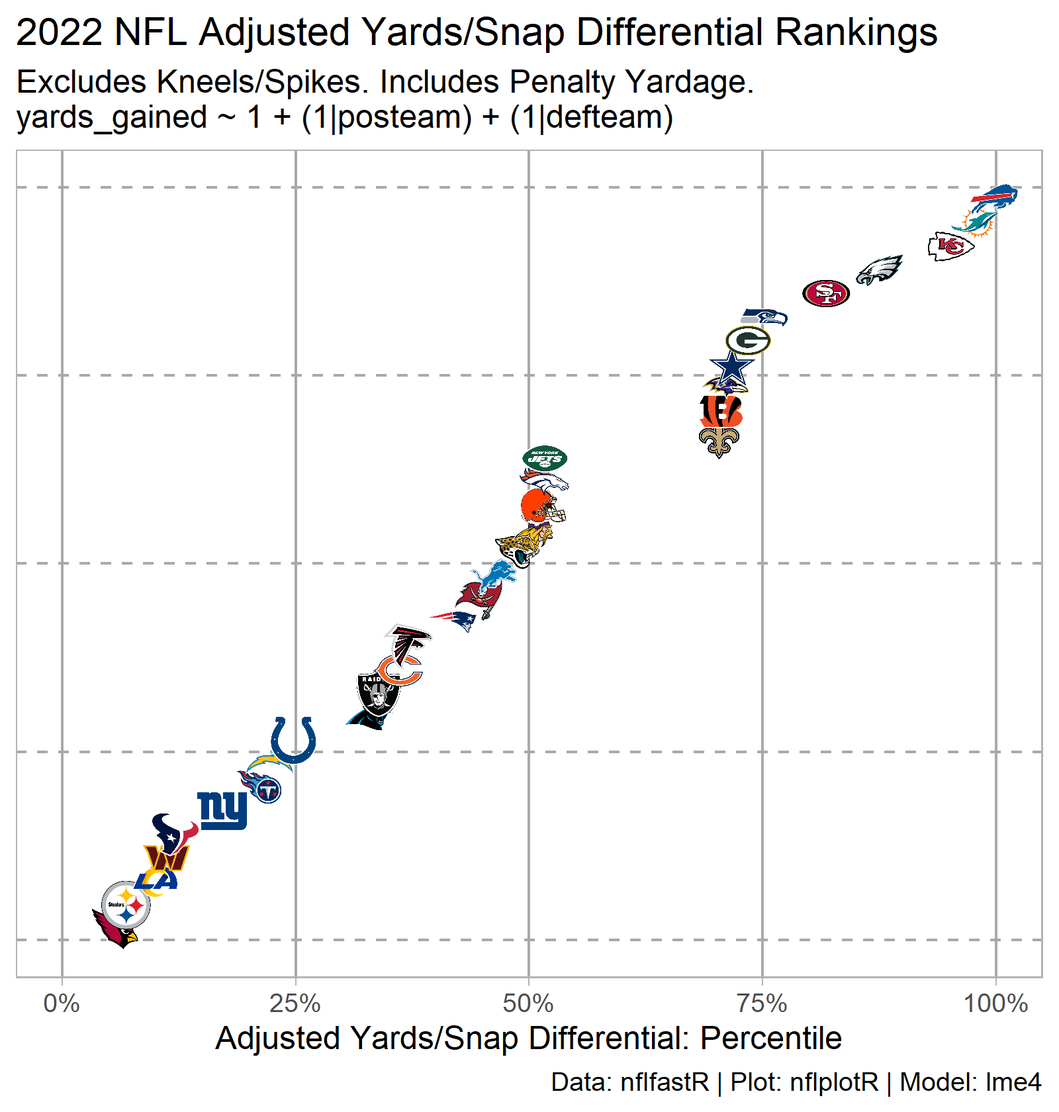
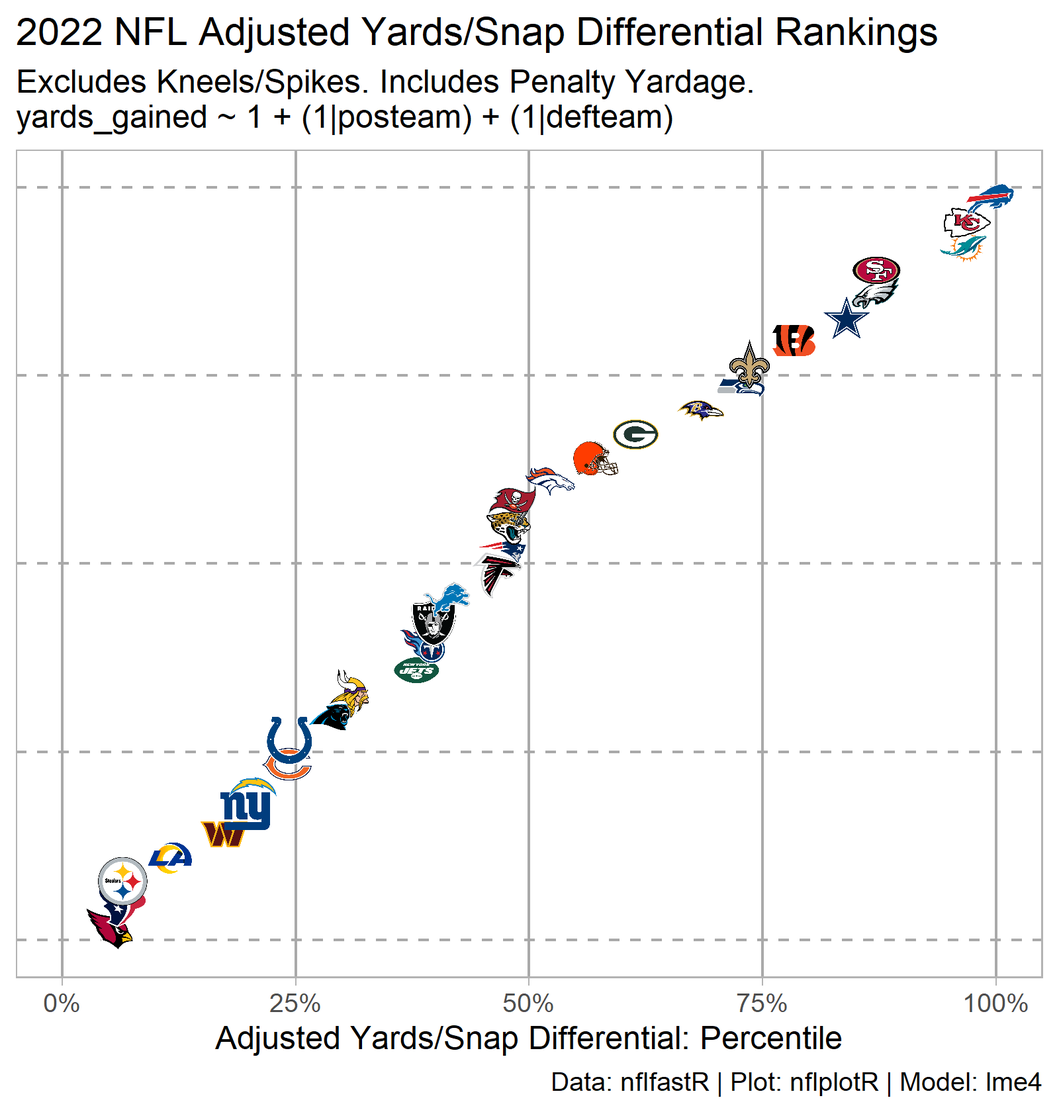
11/23/2023

Changed region(s): [[0.0625, 0.3714, 0.625, 0.8667], [0.625, 0.1548, 0.9688, 0.4333]]

diff --git a/docs/2022-nfl-team-metrics.html b/docs/2022-nfl-team-metrics.html
@@ -94,8 +94,8 @@ code span.wa { color: #5e5e5e; font-style: italic; } /* Warning */
 
 
   <!--  https://schema.org/Article -->
-  <meta property="article:published" itemprop="datePublished" content="2022-11-15"/>
-  <meta property="article:created" itemprop="dateCreated" content="2022-11-15"/>
+  <meta property="article:published" itemprop="datePublished" content="2022-11-23"/>
+  <meta property="article:created" itemprop="dateCreated" content="2022-11-23"/>
   <meta name="article:author" content="Casey Caprini"/>
 
   <!--  https://developers.facebook.com/docs/sharing/webmasters#markup -->
@@ -114,7 +114,7 @@ code span.wa { color: #5e5e5e; font-style: italic; } /* Warning */
   <!--radix_placeholder_rmarkdown_metadata-->
 
   <script type="text/json" id="radix-rmarkdown-metadata">
-  {"type":"list","attributes":{"names":{"type":"character","attributes":{},"value":["title","description","author","date","output"]}},"value":[{"type":"character","attributes":{},"value":["2022 NFL Team Metrics"]},{"type":"character","attributes":{},"value":["Team time average metrics for the 2021 regular season.\n"]},{"type":"list","attributes":{},"value":[{"type":"list","attributes":{"names":{"type":"character","attributes":{},"value":["name"]}},"value":[{"type":"character","attributes":{},"value":["Casey Caprini"]}]}]},{"type":"character","attributes":{},"value":["11-15-2022"]},{"type":"list","attributes":{"names":{"type":"character","attributes":{},"value":["distill::distill_article"]}},"value":[{"type":"list","attributes":{"names":{"type":"character","attributes":{},"value":["self_contained","code_folding"]}},"value":[{"type":"logical","attributes":{},"value":[false]},{"type":"logical","attributes":{},"value":[true]}]}]}]}
+  {"type":"list","attributes":{"names":{"type":"character","attributes":{},"value":["title","description","author","date","output"]}},"value":[{"type":"character","attributes":{},"value":["2022 NFL Team Metrics"]},{"type":"character","attributes":{},"value":["Team time average metrics for the 2021 regular season.\n"]},{"type":"list","attributes":{},"value":[{"type":"list","attributes":{"names":{"type":"character","attributes":{},"value":["name"]}},"value":[{"type":"character","attributes":{},"value":["Casey Caprini"]}]}]},{"type":"character","attributes":{},"value":["11-23-2022"]},{"type":"list","attributes":{"names":{"type":"character","attributes":{},"value":["distill::distill_article"]}},"value":[{"type":"list","attributes":{"names":{"type":"character","attributes":{},"value":["self_contained","code_folding"]}},"value":[{"type":"logical","attributes":{},"value":[false]},{"type":"logical","attributes":{},"value":[true]}]}]}]}
   </script>
   <!--/radix_placeholder_rmarkdown_metadata-->
   <!--radix_placeholder_navigation_in_header-->
@@ -2408,7 +2408,7 @@ code span.wa { color: #5e5e5e; font-style: italic; } /* Warning */
 <!--radix_placeholder_front_matter-->
 
 <script id="distill-front-matter" type="text/json">
-{"title":"2022 NFL Team Metrics","description":"Team time average metrics for the 2021 regular season.","authors":[{"author":"Casey Caprini","authorURL":"#","affiliation":"&nbsp;","affiliationURL":"#","orcidID":""}],"publishedDate":"2022-11-15T00:00:00.000-05:00","citationText":"Caprini, 2022"}
+{"title":"2022 NFL Team Metrics","description":"Team time average metrics for the 2021 regular season.","authors":[{"author":"Casey Caprini","authorURL":"#","affiliation":"&nbsp;","affiliationURL":"#","orcidID":""}],"publishedDate":"2022-11-23T00:00:00.000-05:00","citationText":"Caprini, 2022"}
 </script>
 
 <!--/radix_placeholder_front_matter-->
@@ -2441,7 +2441,7 @@ code span.wa { color: #5e5e5e; font-style: italic; } /* Warning */
 <div class="d-byline">
   Casey Caprini  
   
-<br/>11-15-2022
+<br/>11-23-2022
 </div>
 
 <div class="d-article">
@@ -2767,8 +2767,8 @@ Show code
 <span>  <span class='op'>)</span></span></code></pre>
 </div>
 </details>
-<div id="htmlwidget-ec0e6b16df1363bb1438" class="reactable html-widget" style="width:auto;height:675px;"></div>
-<script type="application/json" data-for="htmlwidget-ec0e6b16df1363bb1438">{"x":{"tag":{"name":"Reactable","attribs":{"data":{"team_logo_espn":["https://a.espncdn.com/i/teamlogos/nfl/500/ari.png","https://a.espncdn.com/i/teamlogos/nfl/500/atl.png","https://a.espncdn.com/i/teamlogos/nfl/500/bal.png","https://a.espncdn.com/i/teamlogos/nfl/500/buf.png","https://a.espncdn.com/i/teamlogos/nfl/500-dark/car.png","https://a.espncdn.com/i/teamlogos/nfl/500/chi.png","https://a.espncdn.com/i/teamlogos/nfl/500/cin.png","https://a.espncdn.com/i/teamlogos/nfl/500/cle.png","https://a.espncdn.com/i/teamlogos/nfl/500/dal.png","https://a.espncdn.com/i/teamlogos/nfl/500/den.png","https://a.espncdn.com/i/teamlogos/nfl/500/det.png","https://a.espncdn.com/i/teamlogos/nfl/500/gb.png","https://a.espncdn.com/i/teamlogos/nfl/500/hou.png","https://a.espncdn.com/i/teamlogos/nfl/500/ind.png","https://a.espncdn.com/i/teamlogos/nfl/500/jax.png","https://a.espncdn.com/i/teamlogos/nfl/500/kc.png","https://a.espncdn.com/i/teamlogos/nfl/500/lar.png","https://a.espncdn.com/i/teamlogos/nfl/500/lac.png","https://a.espncdn.com/i/teamlogos/nfl/500/lv.png","https://a.espncdn.com/i/teamlogos/nfl/500/mia.png","https://a.espncdn.com/i/teamlogos/nfl/500/min.png","https://a.espncdn.com/i/teamlogos/nfl/500/ne.png","https://a.espncdn.com/i/teamlogos/nfl/500/no.png","https://a.espncdn.com/i/teamlogos/nfl/500/nyg.png","https://a.espncdn.com/i/teamlogos/nfl/500/nyj.png","https://a.espncdn.com/i/teamlogos/nfl/500/phi.png","https://a.espncdn.com/i/teamlogos/nfl/500/pit.png","https://a.espncdn.com/i/teamlogos/nfl/500/sea.png","https://a.espncdn.com/i/teamlogos/nfl/500/sf.png","https://a.espncdn.com/i/teamlogos/nfl/500/tb.png","https://a.espncdn.com/i/teamlogos/nfl/500/ten.png","https://a.espncdn.com/i/teamlogos/nfl/500/wsh.png"],"team":["ARI","ATL","BAL","BUF","CAR","CHI","CIN","CLE","DAL","DEN","DET","GB","HOU","IND","JAX","KC","LA","LAC","LV","MIA","MIN","NE","NO","NYG","NYJ","PHI","PIT","SEA","SF","TB","TEN","WAS"],"time_avg_lead":[-4.143,-2.03191666666667,5.03435185185185,6.56422839506173,-1.94530555555556,-2.64238888888889,1.89237654320988,0.512283950617284,2.79361111111111,-0.93070987654321,-0.654845679012346,-1.31263888888889,-2.5920987654321,-4.58661111111111,1.17733333333333,3.85601851851852,-0.499166666666667,-0.499382716049383,-1.18651234567901,-0.196166666666667,0.71141975308642,1.76154320987654,-1.41261111111111,-1.14043209876543,-1.47654320987654,6.66719135802469,-3.53413580246914,0.844472222222222,1.87432098765432,-0.609111111111111,2.93487654320988,-3.02161111111111],"time_avg_wins":[3.18881556213732,4.50402090089957,6.94553728655957,6.64660702748456,4.60189902474046,3.71574018990607,4.3262408534412,4.80894623616012,5.78709795575564,3.90124880856231,4.33036645559883,4.41332390508226,3.25393336397291,2.75801857650448,5.35952299559142,5.66541909757392,4.04972370765926,4.25336432643312,4.25335511787579,4.81175478109935,5.07974457211305,5.14944181770693,3.89760281683306,3.81490688444891,3.97722093136563,7.23117841163086,3.58730956678077,5.66806147767994,5.24318142091912,4.69159081159336,6.31195935516555,3.77286576072469],"off_yards_per_snap":[4.49245541838134,5.20491803278689,5.48096885813149,6.30327868852459,4.88415672913118,5.19936708860759,5.34789644012945,5.38095238095238,5.1394148020654,4.73217115689382,5.5152027027027,5.38449848024316,4.83392857142857,4.67485549132948,5.29203539823009,5.95873015873016,4.32280701754386,4.94670846394984,5.16123499142367,6.28526645768025,5.25361155698234,4.97894736842105,5.40184049079755,4.74959349593496,4.8914858096828,5.47634584013051,4.38969404186795,5.64593301435407,5.36040609137056,4.87731811697575,4.59439252336449,4.65021156558533],"off_adj_yards_per_snap":[4.81443090087255,5.18171720122768,5.30963864167038,5.68415036043219,5.0238829176357,5.16480983706767,5.24132017645793,5.25374520872609,5.14548691916373,4.95073971837095,5.3166384125296,5.26719510662215,5.01488822236276,4.90885637459755,5.22170677001515,5.5388490541351,4.80316054313682,5.04282184883579,5.15849043319695,5.6767764079059,5.19025846021132,5.06205267056378,5.25899099628249,4.95331732628401,5.03926039731874,5.27593332128278,4.81590044046485,5.37419123465982,5.23989663969639,5.01419100582218,4.91740361577613,4.91043765672331],"def_yards_per_snap":[5.3562874251497,5.5568345323741,5.38279932546374,4.7056856187291,5.01276595744681,5.60096153846154,5.0472027972028,5.59680284191829,4.52,4.20772946859903,6.0489396411093,5.02392344497608,5.64342313787639,4.76388888888889,5.38980509745127,5.13764510779436,4.89821428571429,5.54513888888889,5.54438860971524,5.49388379204893,5.44426494345719,5.02401372212693,5.04393939393939,5.28006872852234,4.73008130081301,4.41788617886179,5.32626427406199,5.32142857142857,4.52593917710197,4.76197836166924,4.9622641509434,5.3623417721519],"def_adj_yards_per_snap":[5.18760968693994,5.25930690884085,5.18184239343465,5.04664762648064,5.12772602389939,5.24918821834545,5.11633037186692,5.2451669047004,5.01201616838855,4.94150358486918,5.33961938485623,5.12154672559712,5.28875957603931,5.06865916241325,5.22985006645616,5.15221529155405,5.10434765154896,5.22189248122452,5.25580505412254,5.21485775489584,5.18837398336167,5.11063721216944,5.13502004576217,5.1759124810626,5.03001903978724,5.00817998836356,5.16424236169614,5.21627610975098,5.02895673343041,5.04610188038915,5.10673022790086,5.19579771989954],"yards_per_snap_diff":[-0.863832006768356,-0.351916499587215,0.0981695326677441,1.59759306979549,-0.128609228315633,-0.401594449853944,0.300693642926652,-0.215850460965913,0.619414802065405,0.524441688294785,-0.533736938406596,0.360575035267085,-0.809494566447816,-0.0890333975594091,-0.0977696992211863,0.821085050935797,-0.575407268170426,-0.598430424939046,-0.383153618291573,0.791382665631321,-0.190653386474846,-0.0450663537058773,0.357901096858152,-0.530475232587377,0.161404508869796,1.05845966126872,-0.936570232194035,0.324504442925496,0.834466914268591,0.115339755306506,-0.36787162757891,-0.712130206566568],"adj_yards_per_snap_diff":[-0.373178786067394,-0.0775897076131669,0.127796248235732,0.637502733951548,-0.103843106263694,-0.084378381277781,0.124989804591008,0.00857830402569348,0.133470750775179,0.00923613350177277,-0.0229809723266223,0.145648381025038,-0.273871353676554,-0.159802787815698,-0.00814329644101353,0.386633762581041,-0.301187108412138,-0.179070632388736,-0.0973146209255873,0.461918653010067,0.0018844768496491,-0.0485845416056661,0.123970950520322,-0.222595154778591,0.00924135753149891,0.267753332919227,-0.348341921231286,0.157915124908843,0.210939906265982,-0.0319108745669645,-0.189326612124735,-0.285360063176232]},"columns":[{"accessor":"team_logo_espn","name":" ","type":"character","format":{"cell":{"digits":1},"aggregated":{"digits":1}},"align":"center","sortable":false,"cell":[{"name":"Fragment","attribs":[],"children":[{"name":"div","attribs":{"style":{"display":"flex","justifyContent":"center"}},"children":[{"name":"img","attribs":{"src":"https://a.espncdn.com/i/teamlogos/nfl/500/ari.png","align":"center","height":24,"width":24},"children":[]}]}]},{"name":"Fragment","attribs":[],"children":[{"name":"div","attribs":{"style":{"display":"flex","justifyContent":"center"}},"children":[{"name":"img","attribs":{"src":"https://a.espncdn.com/i/teamlogos/nfl/500/atl.png","align":"center","height":24,"width":24},"children":[]}]}]},{"name":"Fragment","attribs":[],"children":[{"name":"div","attribs":{"style":{"display":"flex","justifyContent":"center"}},"children":[{"name":"img","attribs":{"src":"https://a.espncdn.com/i/teamlogos/nfl/500/bal.png","align":"center","height":24,"width":24},"children":[]}]}]},{"name":"Fragment","attribs":[],"children":[{"name":"div","attribs":{"style":{"display":"flex","justifyContent":"center"}},"children":[{"name":"img","attribs":{"src":"https://a.espncdn.com/i/teamlogos/nfl/500/buf.png","align":"center","height":24,"width":24},"children":[]}]}]},{"name":"Fragment","attribs":[],"children":[{"name":"div","attribs":{"style":{"display":"flex","justifyContent":"center"}},"children":[{"name":"img","attribs":{"src":"https://a.espncdn.com/i/teamlogos/nfl/500-dark/car.png","align":"center","height":24,"width":24},"children":[]}]}]},{"name":"Fragment","attribs":[],"children":[{"name":"div","attribs":{"style":{"display":"flex","justifyContent":"center"}},"children":[{"name":"img","attribs":{"src":"https://a.espncdn.com/i/teamlogos/nfl/500/chi.png","align":"center","height":24,"width":24},"children":[]}]}]},{"name":"Fragment","attribs":[],"children":[{"name":"div","attribs":{"style":{"display":"flex","justifyContent":"center"}},"children":[{"name":"img","attribs":{"src":"https://a.espncdn.com/i/teamlogos/nfl/500/cin.png","align":"center","height":24,"width":24},"children":[]}]}]},{"name":"Fragment","attribs":[],"children":[{"name":"div","attribs":{"style":{"display":"flex","justifyContent":"center"}},"children":[{"name":"img","attribs":{"src":"https://a.espncdn.com/i/teamlogos/nfl/500/cle.png","align":"center","height":24,"width":24},"children":[]}]}]},{"name":"Fragment","attribs":[],"children":[{"name":"div","attribs":{"style":{"display":"flex","justifyContent":"center"}},"children":[{"name":"img","attribs":{"src":"https://a.espncdn.com/i/teamlogos/nfl/500/dal.png","align":"center","height":24,"width":24},"children":[]}]}]},{"name":"Fragment","attribs":[],"children":[{"name":"div","attribs":{"style":{"display":"flex","justifyContent":"center"}},"children":[{"name":"img","attribs":{"src":"https://a.espncdn.com/i/teamlogos/nfl/500/den.png","align":"center","height":24,"width":24},"children":[]}]}]},{"name":"Fragment","attribs":[],"children":[{"name":"div","attribs":{"style":{"display":"flex","justifyContent":"center"}},"children":[{"name":"img","attribs":{"src":"https://a.espncdn.com/i/teamlogos/nfl/500/det.png","align":"center","height":24,"width":24},"children":[]}]}]},{"name":"Fragment","attribs":[],"children":[{"name":"div","attribs":{"style":{"display":"flex","justifyContent":"center"}},"children":[{"name":"img","attribs":{"src":"https://a.espncdn.com/i/teamlogos/nfl/500/gb.png","align":"center","height":24,"width":24},"children":[]}]}]},{"name":"Fragment","attribs":[],"children":[{"name":"div","attribs":{"style":{"display":"flex","justifyContent":"center"}},"children":[{"name":"img","attribs":{"src":"https://a.espncdn.com/i/teamlogos/nfl/500/hou.png","align":"center","height":24,"width":24},"children":[]}]}]},{"name":"Fragment","attribs":[],"children":[{"name":"div","attribs":{"style":{"display":"flex","justifyContent":"center"}},"children":[{"name":"img","attribs":{"src":"https://a.espncdn.com/i/teamlogos/nfl/500/ind.png","align":"center","height":24,"width":24},"children":[]}]}]},{"name":"Fragment","attribs":[],"children":[{"name":"div","attribs":{"style":{"display":"flex","justifyContent":"center"}},"children":[{"name":"img","attribs":{"src":"https://a.espncdn.com/i/teamlogos/nfl/500/jax.png","align":"center","height":24,"width":24},"children":[]}]}]},{"name":"Fragment","attribs":[],"children":[{"name":"div","attribs":{"style":{"display":"flex","justifyContent":"center"}},"children":[{"name":"img","attribs":{"src":"https://a.espncdn.com/i/teamlogos/nfl/500/kc.png","align":"center","height":24,"width":24},"children":[]}]}]},{"name":"Fragment","attribs":[],"children":[{"name":"div","attribs":{"style":{"display":"flex","justifyContent":"center"}},"children":[{"name":"img","attribs":{"src":"https://a.espncdn.com/i/teamlogos/nfl/500/lar.png","align":"center","height":24,"width":24},"children":[]}]}]},{"name":"Fragment","attribs":[],"children":[{"name":"div","attribs":{"style":{"display":"flex","justifyContent":"center"}},"children":[{"name":"img","attribs":{"src":"https://a.espncdn.com/i/teamlogos/nfl/500/lac.png","align":"center","height":24,"width":24},"children":[]}]}]},{"name":"Fragment","attribs":[],"children":[{"name":"div","attribs":{"style":{"display":"flex","justifyContent":"center"}},"children":[{"name":"img","attribs":{"src":"https://a.espncdn.com/i/teamlogos/nfl/500/lv.png","align":"center","height":24,"width":24},"children":[]}]}]},{"name":"Fragment","attribs":[],"children":[{"name":"div","attribs":{"style":{"display":"flex","justifyContent":"center"}},"children":[{"name":"img","attribs":{"src":"https://a.espncdn.com/i/teamlogos/nfl/500/mia.png","align":"center","height":24,"width":24},"children":[]}]}]},{"name":"Fragment","attribs":[],"children":[{"name":"div","attribs":{"style":{"display":"flex","justifyContent":"center"}},"children":[{"name":"img","attribs":{"src":"https://a.espncdn.com/i/teamlogos/nfl/500/min.png","align":"center","height":24,"width":24},"children":[]}]}]},{"name":"Fragment","attribs":[],"children":[{"name":"div","attribs":{"style":{"display":"flex","justifyContent":"center"}},"children":[{"name":"img","attribs":{"src":"https://a.espncdn.com/i/teamlogos/nfl/500/ne.png","align":"center","height":24,"width":24},"children":[]}]}]},{"name":"Fragment","attribs":[],"children":[{"name":"div","attribs":{"style":{"display":"flex","justifyContent":"center"}},"children":[{"name":"img","attribs":{"src":"https://a.espncdn.com/i/teamlogos/nfl/500/no.png","align":"center","height":24,"width":24},"children":[]}]}]},{"name":"Fragment","attribs":[],"children":[{"name":"div","attribs":{"style":{"display":"flex","justifyContent":"center"}},"children":[{"name":"img","attribs":{"src":"https://a.espncdn.com/i/teamlogos/nfl/500/nyg.png","align":"center","height":24,"width":24},"children":[]}]}]},{"name":"Fragment","attribs":[],"children":[{"name":"div","attribs":{"style":{"display":"flex","justifyContent":"center"}},"children":[{"name":"img","attribs":{"src":"https://a.espncdn.com/i/teamlogos/nfl/500/nyj.png","align":"center","height":24,"width":24},"children":[]}]}]},{"name":"Fragment","attribs":[],"children":[{"name":"div","attribs":{"style":{"display":"flex","justifyContent":"center"}},"children":[{"name":"img","attribs":{"src":"https://a.espncdn.com/i/teamlogos/nfl/500/phi.png","align":"center","height":24,"width":24},"children":[]}]}]},{"name":"Fragment","attribs":[],"children":[{"name":"div","attribs":{"style":{"display":"flex","justifyContent":"center"}},"children":[{"name":"img","attribs":{"src":"https://a.espncdn.com/i/teamlogos/nfl/500/pit.png","align":"center","height":24,"width":24},"children":[]}]}]},{"name":"Fragment","attribs":[],"children":[{"name":"div","attribs":{"style":{"display":"flex","justifyContent":"center"}},"children":[{"name":"img","attribs":{"src":"https://a.espncdn.com/i/teamlogos/nfl/500/sea.png","align":"center","height":24,"width":24},"children":[]}]}]},{"name":"Fragment","attribs":[],"children":[{"name":"div","attribs":{"style":{"display":"flex","justifyContent":"center"}},"children":[{"name":"img","attribs":{"src":"https://a.espncdn.com/i/teamlogos/nfl/500/sf.png","align":"center","height":24,"width":24},"children":[]}]}]},{"name":"Fragment","attribs":[],"children":[{"name":"div","attribs":{"style":{"display":"flex","justifyContent":"center"}},"children":[{"name":"img","attribs":{"src":"https://a.espncdn.com/i/teamlogos/nfl/500/tb.png","align":"center","height":24,"width":24},"children":[]}]}]},{"name":"Fragment","attribs":[],"children":[{"name":"div","attribs":{"style":{"display":"flex","justifyContent":"center"}},"children":[{"name":"img","attribs":{"src":"https://a.espncdn.com/i/teamlogos/nfl/500/ten.png","align":"center","height":24,"width":24},"children":[]}]}]},{"name":"Fragment","attribs":[],"children":[{"name":"div","attribs":{"style":{"display":"flex","justifyContent":"center"}},"children":[{"name":"img","attribs":{"src":"https://a.espncdn.com/i/teamlogos/nfl/500/wsh.png","align":"center","height":24,"width":24},"children":[]}]}]}],"width":40,"style":{"position":"sticky","left":0,"background":"#fff","zIndex":1}},{"accessor":"team","name":"Team","type":"character","format":{"cell":{"digits":1},"aggregated":{"digits":1}},"align":"center","width":60,"style":{"position":"sticky","left":40,"background":"#fff","zIndex":1}},{"accessor":"time_avg_lead","name":"Time Average Lead","type":"numeric","format":{"cell":{"digits":1},"aggregated":{"digits":1}},"align":"center"},{"accessor":"time_avg_wins","name":"Expected Wins","type":"numeric","format":{"cell":{"digits":1},"aggregated":{"digits":1}},"align":"center"},{"accessor":"off_yards_per_snap","name":"Yards/Snap","type":"numeric","format":{"cell":{"digits":1},"aggregated":{"digits":1}},"align":"center"},{"accessor":"off_adj_yards_per_snap","name":"Adj Yards/Snap","type":"numeric","format":{"cell":{"digits":1},"aggregated":{"digits":1}},"align":"center"},{"accessor":"def_yards_per_snap","name":"Yards/Snap","type":"numeric","format":{"cell":{"digits":1},"aggregated":{"digits":1}},"align":"center"},{"accessor":"def_adj_yards_per_snap","name":"Adj Yards/Snap","type":"numeric","format":{"cell":{"digits":1},"aggregated":{"digits":1}},"align":"center"},{"accessor":"yards_per_snap_diff","name":"Yards/Snap Diff","type":"numeric","format":{"cell":{"digits":2},"aggregated":{"digits":2}},"align":"center"},{"accessor":"adj_yards_per_snap_diff","name":"Adj Yards/Snap Diff","type":"numeric","format":{"cell":{"digits":2},"aggregated":{"digits":2}},"align":"center"}],"columnGroups":[{"name":"Time Average Stats","columns":["time_avg_lead","time_avg_wins"]},{"name":"Offense","columns":["off_yards_per_snap","off_adj_yards_per_snap"]},{"name":"Defense","columns":["def_yards_per_snap","def_adj_yards_per_snap"]},{"name":"Differential","columns":["yards_per_snap_diff","adj_yards_per_snap_diff"]}],"defaultSortDesc":true,"defaultSorted":[{"id":"time_avg_lead","desc":true}],"pagination":false,"defaultPageSize":10,"paginationType":"numbers","showPageInfo":true,"minRows":1,"highlight":true,"bordered":true,"height":"675px","theme":{"color":"#878e94","backgroundColor":"#ffffff","borderWidth":"0px","stripedColor":"#f9f9fb","highlightColor":"#f1f3f4","cellPadding":4,"tableStyle":{"fontSize":16},"headerStyle":{"borderWidth":"1px","padding":"7px","borderTop":"1px solid #595d63","backgroundColor":"#595d63","textTransform":"uppercase","borderColor":"#595d63","color":"#ffffff","transitionDuration":"0.1s","&:hover[aria-sort]":{"backgroundColor":"#4d5056","color":"#ffffff"},"&[aria-sort='ascending']":{"backgroundColor":"#393c40","color":"#ffffff","boxShadow":"inset 0 3px 0 0 #ffffff"},"&[aria-sort='descending']":{"backgroundColor":"#393c40","color":"#ffffff","boxShadow":"inset 0 -3px 0 0 #ffffff"},"fontSize":12,"fontWeight":"bold"},"groupHeaderStyle":{"&:not(:empty)":{"backgroundColor":"#e4e8ed","textTransform":"uppercase","fontWeight":"bold","color":"#878e94","fontSize":12,"boxShadow":"inset 3px 0 0 0 #ffffff"}},"rowSelectedStyle":{"backgroundColor":"#e4e8ed"},"inputStyle":{"backgroundColor":"#ffffff","color":"#878e94"},"searchInputStyle":{"fontSize":"14px","textTransform":"uppercase","backgroundColor":"#ffffff","color":"#878e94","&:focus":{"color":"#878e94"}},"selectStyle":{"backgroundColor":"#073c57","color":"#ffffff","borderColor":"#ffffff","outlineColor":"#ffffff"},"paginationStyle":{"textTransform":"uppercase","fontSize":"15px"},"pageButtonStyle":{"textTransform":"uppercase","fontSize":"15px","backgroundColor":"#ffffff","color":"#164861","&:hover":{"backgroundColor":"#052c3f","color":"#ffffff"}},"pageButtonHoverStyle":{"backgroundColor":"#052c3f","color":"#ffffff"},"pageButtonActiveStyle":{"backgroundColor":"#073c57","color":"#ffffff"},"pageButtonCurrentStyle":{"backgroundColor":"#073c57","color":"#ffffff"}},"dataKey":"87e9a8a170355b8bdecde73e20adbf26"},"children":[]},"class":"reactR_markup"},"evals":[],"jsHooks":[]}</script>
+<div id="htmlwidget-3260d54af849f0b56dfe" class="reactable html-widget" style="width:auto;height:675px;"></div>
+<script type="application/json" data-for="htmlwidget-3260d54af849f0b56dfe">{"x":{"tag":{"name":"Reactable","attribs":{"data":{"team_logo_espn":["https://a.espncdn.com/i/teamlogos/nfl/500/ari.png","https://a.espncdn.com/i/teamlogos/nfl/500/atl.png","https://a.espncdn.com/i/teamlogos/nfl/500/bal.png","https://a.espncdn.com/i/teamlogos/nfl/500/buf.png","https://a.espncdn.com/i/teamlogos/nfl/500-dark/car.png","https://a.espncdn.com/i/teamlogos/nfl/500/chi.png","https://a.espncdn.com/i/teamlogos/nfl/500/cin.png","https://a.espncdn.com/i/teamlogos/nfl/500/cle.png","https://a.espncdn.com/i/teamlogos/nfl/500/dal.png","https://a.espncdn.com/i/teamlogos/nfl/500/den.png","https://a.espncdn.com/i/teamlogos/nfl/500/det.png","https://a.espncdn.com/i/teamlogos/nfl/500/gb.png","https://a.espncdn.com/i/teamlogos/nfl/500/hou.png","https://a.espncdn.com/i/teamlogos/nfl/500/ind.png","https://a.espncdn.com/i/teamlogos/nfl/500/jax.png","https://a.espncdn.com/i/teamlogos/nfl/500/kc.png","https://a.espncdn.com/i/teamlogos/nfl/500/lar.png","https://a.espncdn.com/i/teamlogos/nfl/500/lac.png","https://a.espncdn.com/i/teamlogos/nfl/500/lv.png","https://a.espncdn.com/i/teamlogos/nfl/500/mia.png","https://a.espncdn.com/i/teamlogos/nfl/500/min.png","https://a.espncdn.com/i/teamlogos/nfl/500/ne.png","https://a.espncdn.com/i/teamlogos/nfl/500/no.png","https://a.espncdn.com/i/teamlogos/nfl/500/nyg.png","https://a.espncdn.com/i/teamlogos/nfl/500/nyj.png","https://a.espncdn.com/i/teamlogos/nfl/500/phi.png","https://a.espncdn.com/i/teamlogos/nfl/500/pit.png","https://a.espncdn.com/i/teamlogos/nfl/500/sea.png","https://a.espncdn.com/i/teamlogos/nfl/500/sf.png","https://a.espncdn.com/i/teamlogos/nfl/500/tb.png","https://a.espncdn.com/i/teamlogos/nfl/500/ten.png","https://a.espncdn.com/i/teamlogos/nfl/500/wsh.png"],"team":["ARI","ATL","BAL","BUF","CAR","CHI","CIN","CLE","DAL","DEN","DET","GB","HOU","IND","JAX","KC","LA","LAC","LV","MIA","MIN","NE","NO","NYG","NYJ","PHI","PIT","SEA","SF","TB","TEN","WAS"],"time_avg_lead":[-4.72156565656566,-1.74568181818182,4.69344444444444,6.20677777777778,-1.91621212121212,-2.50368686868687,1.96258333333333,0.16225,4.42088888888889,-0.530444444444444,0.152166666666667,-1.72707070707071,-3.72377777777778,-3.61984848484849,1.17733333333333,3.37047222222222,-0.772805555555556,-0.3495,-1.37505555555556,-0.196166666666667,-1.26652777777778,1.61636111111111,-0.990050505050505,-1.76791666666667,-1.35986111111111,5.39569444444444,-3.44016666666667,0.844472222222222,2.73761111111111,-0.609111111111111,3.22852777777778,-1.48247474747475],"time_avg_wins":[3.22588319963195,5.08970859885584,7.56889769371166,7.36297429449797,4.97853861758837,4.13005249194979,5.01712964828669,5.09262276744109,6.78439467054586,4.62282685790927,5.23913876574615,4.55274211315023,3.26716590274129,3.62503255878838,5.35952299559142,6.08857587448928,4.31807133917703,4.83020754951777,4.53177706852882,4.81175478109935,5.08240405902847,5.67342686691137,4.62925518531528,3.90613457430159,4.45323588216118,7.36416442934696,3.89642077193528,5.66806147767994,6.20611378342449,4.69159081159336,7.17254114709757,4.75963322195631],"off_yards_per_snap":[4.47440699126092,5.24810892586989,5.33641975308642,6.23958333333333,4.72839506172839,5.04551920341394,5.43859649122807,5.42998585572843,5.25114854517611,4.77586206896552,5.45662100456621,5.29805013927577,4.63739837398374,4.59025032938076,5.29203539823009,6.10951008645533,4.37697160883281,4.99431818181818,5.23230769230769,6.28526645768025,5.03065693430657,4.89731437598736,5.46251768033946,4.78901734104046,4.63761467889908,5.40942562592047,4.38737446197991,5.64593301435407,5.46604938271605,4.87731811697575,4.81605351170569,4.67994858611825],"off_adj_yards_per_snap":[4.75967714253033,5.19529745588384,5.25655114660824,5.70636698180562,4.92066667988147,5.07691578442285,5.29876291461509,5.29935719962741,5.18815316917091,4.93280062890136,5.30343207433184,5.23618410587553,4.88570722830673,4.83582462399758,5.21896951361134,5.65456168720132,4.7766773371004,5.04326400742367,5.19442902355458,5.71144987189699,5.07355995100372,5.004413411622,5.29881361652361,4.926697972965,4.88893428837256,5.25527633605271,4.76419142130377,5.37754869727454,5.29057726014392,4.99738315285571,4.98203019570121,4.8827839825826],"def_yards_per_snap":[5.45103448275862,5.38250652741514,5.18195718654434,4.83407407407407,4.9341935483871,5.61333333333333,4.96759259259259,5.5984,4.36390101892285,4.36773255813953,5.94347826086956,5.1768115942029,5.57857142857143,4.76610644257703,5.38980509745127,5.16890881913303,5.0130081300813,5.75,5.51057401812689,5.49388379204893,5.51808972503618,4.75235109717868,5.02762430939227,5.24420401854714,4.67699115044248,4.34897360703812,5.41973490427099,5.32142857142857,4.49920760697306,4.76197836166924,4.90948275862069,5.14410480349345],"def_adj_yards_per_snap":[5.20987419966013,5.21906461098484,5.12763533146945,5.0401539129109,5.07216561631275,5.26927081269389,5.08658123971149,5.25064214093274,4.91820566404744,4.9178671417446,5.36509030679592,5.15804116602502,5.30127931802899,5.02608032252521,5.23465041279603,5.14729777785988,5.10431700291558,5.26886010943585,5.26543306168048,5.22066442333367,5.21140361618914,5.02444211630949,5.12749747463064,5.16060710229832,4.97291442833938,4.94812453771512,5.17967653492232,5.21413962333338,4.98256623999469,5.01003449090622,5.06288502347299,5.13979310317114],"yards_per_snap_diff":[-0.976627491497696,-0.13439760154525,0.154462566542078,1.40550925925926,-0.205798486658702,-0.567814129919393,0.471003898635478,-0.16841414427157,0.887247526253257,0.408129510825982,-0.486857256303355,0.121238545072868,-0.941173054587688,-0.175856113196266,-0.0977696992211863,0.940601267322297,-0.636036521248493,-0.755681818181818,-0.278266325819196,0.791382665631321,-0.48743279072961,0.144963278808678,0.434893370947197,-0.455186677506678,-0.0393764715433953,1.06045201888235,-1.03236044229107,0.324504442925496,0.96684177574299,0.115339755306506,-0.0934292469150035,-0.464156217375198],"adj_yards_per_snap_diff":[-0.450197057129798,-0.0237671551010079,0.128915815138788,0.666213068894714,-0.151498936431278,-0.192355028271042,0.212181674903593,0.0487150586946701,0.269947505123469,0.0149334871567603,-0.0616582324640707,0.0781429398505153,-0.415572089722261,-0.190255698527626,-0.0156808991846917,0.507263909341446,-0.327639665815183,-0.225596102012182,-0.0710040381258956,0.490785448563317,-0.137843665185414,-0.0200287046874896,0.171316141892963,-0.23390912933332,-0.0839801399668261,0.30715179833759,-0.415485113618549,0.163409073941161,0.308011020149221,-0.0126513380505102,-0.0808548277717822,-0.257009120588541]},"columns":[{"accessor":"team_logo_espn","name":" ","type":"character","format":{"cell":{"digits":1},"aggregated":{"digits":1}},"align":"center","sortable":false,"cell":[{"name":"Fragment","attribs":[],"children":[{"name":"div","attribs":{"style":{"display":"flex","justifyContent":"center"}},"children":[{"name":"img","attribs":{"src":"https://a.espncdn.com/i/teamlogos/nfl/500/ari.png","align":"center","height":24,"width":24},"children":[]}]}]},{"name":"Fragment","attribs":[],"children":[{"name":"div","attribs":{"style":{"display":"flex","justifyContent":"center"}},"children":[{"name":"img","attribs":{"src":"https://a.espncdn.com/i/teamlogos/nfl/500/atl.png","align":"center","height":24,"width":24},"children":[]}]}]},{"name":"Fragment","attribs":[],"children":[{"name":"div","attribs":{"style":{"display":"flex","justifyContent":"center"}},"children":[{"name":"img","attribs":{"src":"https://a.espncdn.com/i/teamlogos/nfl/500/bal.png","align":"center","height":24,"width":24},"children":[]}]}]},{"name":"Fragment","attribs":[],"children":[{"name":"div","attribs":{"style":{"display":"flex","justifyContent":"center"}},"children":[{"name":"img","attribs":{"src":"https://a.espncdn.com/i/teamlogos/nfl/500/buf.png","align":"center","height":24,"width":24},"children":[]}]}]},{"name":"Fragment","attribs":[],"children":[{"name":"div","attribs":{"style":{"display":"flex","justifyContent":"center"}},"children":[{"name":"img","attribs":{"src":"https://a.espncdn.com/i/teamlogos/nfl/500-dark/car.png","align":"center","height":24,"width":24},"children":[]}]}]},{"name":"Fragment","attribs":[],"children":[{"name":"div","attribs":{"style":{"display":"flex","justifyContent":"center"}},"children":[{"name":"img","attribs":{"src":"https://a.espncdn.com/i/teamlogos/nfl/500/chi.png","align":"center","height":24,"width":24},"children":[]}]}]},{"name":"Fragment","attribs":[],"children":[{"name":"div","attribs":{"style":{"display":"flex","justifyContent":"center"}},"children":[{"name":"img","attribs":{"src":"https://a.espncdn.com/i/teamlogos/nfl/500/cin.png","align":"center","height":24,"width":24},"children":[]}]}]},{"name":"Fragment","attribs":[],"children":[{"name":"div","attribs":{"style":{"display":"flex","justifyContent":"center"}},"children":[{"name":"img","attribs":{"src":"https://a.espncdn.com/i/teamlogos/nfl/500/cle.png","align":"center","height":24,"width":24},"children":[]}]}]},{"name":"Fragment","attribs":[],"children":[{"name":"div","attribs":{"style":{"display":"flex","justifyContent":"center"}},"children":[{"name":"img","attribs":{"src":"https://a.espncdn.com/i/teamlogos/nfl/500/dal.png","align":"center","height":24,"width":24},"children":[]}]}]},{"name":"Fragment","attribs":[],"children":[{"name":"div","attribs":{"style":{"display":"flex","justifyContent":"center"}},"children":[{"name":"img","attribs":{"src":"https://a.espncdn.com/i/teamlogos/nfl/500/den.png","align":"center","height":24,"width":24},"children":[]}]}]},{"name":"Fragment","attribs":[],"children":[{"name":"div","attribs":{"style":{"display":"flex","justifyContent":"center"}},"children":[{"name":"img","attribs":{"src":"https://a.espncdn.com/i/teamlogos/nfl/500/det.png","align":"center","height":24,"width":24},"children":[]}]}]},{"name":"Fragment","attribs":[],"children":[{"name":"div","attribs":{"style":{"display":"flex","justifyContent":"center"}},"children":[{"name":"img","attribs":{"src":"https://a.espncdn.com/i/teamlogos/nfl/500/gb.png","align":"center","height":24,"width":24},"children":[]}]}]},{"name":"Fragment","attribs":[],"children":[{"name":"div","attribs":{"style":{"display":"flex","justifyContent":"center"}},"children":[{"name":"img","attribs":{"src":"https://a.espncdn.com/i/teamlogos/nfl/500/hou.png","align":"center","height":24,"width":24},"children":[]}]}]},{"name":"Fragment","attribs":[],"children":[{"name":"div","attribs":{"style":{"display":"flex","justifyContent":"center"}},"children":[{"name":"img","attribs":{"src":"https://a.espncdn.com/i/teamlogos/nfl/500/ind.png","align":"center","height":24,"width":24},"children":[]}]}]},{"name":"Fragment","attribs":[],"children":[{"name":"div","attribs":{"style":{"display":"flex","justifyContent":"center"}},"children":[{"name":"img","attribs":{"src":"https://a.espncdn.com/i/teamlogos/nfl/500/jax.png","align":"center","height":24,"width":24},"children":[]}]}]},{"name":"Fragment","attribs":[],"children":[{"name":"div","attribs":{"style":{"display":"flex","justifyContent":"center"}},"children":[{"name":"img","attribs":{"src":"https://a.espncdn.com/i/teamlogos/nfl/500/kc.png","align":"center","height":24,"width":24},"children":[]}]}]},{"name":"Fragment","attribs":[],"children":[{"name":"div","attribs":{"style":{"display":"flex","justifyContent":"center"}},"children":[{"name":"img","attribs":{"src":"https://a.espncdn.com/i/teamlogos/nfl/500/lar.png","align":"center","height":24,"width":24},"children":[]}]}]},{"name":"Fragment","attribs":[],"children":[{"name":"div","attribs":{"style":{"display":"flex","justifyContent":"center"}},"children":[{"name":"img","attribs":{"src":"https://a.espncdn.com/i/teamlogos/nfl/500/lac.png","align":"center","height":24,"width":24},"children":[]}]}]},{"name":"Fragment","attribs":[],"children":[{"name":"div","attribs":{"style":{"display":"flex","justifyContent":"center"}},"children":[{"name":"img","attribs":{"src":"https://a.espncdn.com/i/teamlogos/nfl/500/lv.png","align":"center","height":24,"width":24},"children":[]}]}]},{"name":"Fragment","attribs":[],"children":[{"name":"div","attribs":{"style":{"display":"flex","justifyContent":"center"}},"children":[{"name":"img","attribs":{"src":"https://a.espncdn.com/i/teamlogos/nfl/500/mia.png","align":"center","height":24,"width":24},"children":[]}]}]},{"name":"Fragment","attribs":[],"children":[{"name":"div","attribs":{"style":{"display":"flex","justifyContent":"center"}},"children":[{"name":"img","attribs":{"src":"https://a.espncdn.com/i/teamlogos/nfl/500/min.png","align":"center","height":24,"width":24},"children":[]}]}]},{"name":"Fragment","attribs":[],"children":[{"name":"div","attribs":{"style":{"display":"flex","justifyContent":"center"}},"children":[{"name":"img","attribs":{"src":"https://a.espncdn.com/i/teamlogos/nfl/500/ne.png","align":"center","height":24,"width":24},"children":[]}]}]},{"name":"Fragment","attribs":[],"children":[{"name":"div","attribs":{"style":{"display":"flex","justifyContent":"center"}},"children":[{"name":"img","attribs":{"src":"https://a.espncdn.com/i/teamlogos/nfl/500/no.png","align":"center","height":24,"width":24},"children":[]}]}]},{"name":"Fragment","attribs":[],"children":[{"name":"div","attribs":{"style":{"display":"flex","justifyContent":"center"}},"children":[{"name":"img","attribs":{"src":"https://a.espncdn.com/i/teamlogos/nfl/500/nyg.png","align":"center","height":24,"width":24},"children":[]}]}]},{"name":"Fragment","attribs":[],"children":[{"name":"div","attribs":{"style":{"display":"flex","justifyContent":"center"}},"children":[{"name":"img","attribs":{"src":"https://a.espncdn.com/i/teamlogos/nfl/500/nyj.png","align":"center","height":24,"width":24},"children":[]}]}]},{"name":"Fragment","attribs":[],"children":[{"name":"div","attribs":{"style":{"display":"flex","justifyContent":"center"}},"children":[{"name":"img","attribs":{"src":"https://a.espncdn.com/i/teamlogos/nfl/500/phi.png","align":"center","height":24,"width":24},"children":[]}]}]},{"name":"Fragment","attribs":[],"children":[{"name":"div","attribs":{"style":{"display":"flex","justifyContent":"center"}},"children":[{"name":"img","attribs":{"src":"https://a.espncdn.com/i/teamlogos/nfl/500/pit.png","align":"center","height":24,"width":24},"children":[]}]}]},{"name":"Fragment","attribs":[],"children":[{"name":"div","attribs":{"style":{"display":"flex","justifyContent":"center"}},"children":[{"name":"img","attribs":{"src":"https://a.espncdn.com/i/teamlogos/nfl/500/sea.png","align":"center","height":24,"width":24},"children":[]}]}]},{"name":"Fragment","attribs":[],"children":[{"name":"div","attribs":{"style":{"display":"flex","justifyContent":"center"}},"children":[{"name":"img","attribs":{"src":"https://a.espncdn.com/i/teamlogos/nfl/500/sf.png","align":"center","height":24,"width":24},"children":[]}]}]},{"name":"Fragment","attribs":[],"children":[{"name":"div","attribs":{"style":{"display":"flex","justifyContent":"center"}},"children":[{"name":"img","attribs":{"src":"https://a.espncdn.com/i/teamlogos/nfl/500/tb.png","align":"center","height":24,"width":24},"children":[]}]}]},{"name":"Fragment","attribs":[],"children":[{"name":"div","attribs":{"style":{"display":"flex","justifyContent":"center"}},"children":[{"name":"img","attribs":{"src":"https://a.espncdn.com/i/teamlogos/nfl/500/ten.png","align":"center","height":24,"width":24},"children":[]}]}]},{"name":"Fragment","attribs":[],"children":[{"name":"div","attribs":{"style":{"display":"flex","justifyContent":"center"}},"children":[{"name":"img","attribs":{"src":"https://a.espncdn.com/i/teamlogos/nfl/500/wsh.png","align":"center","height":24,"width":24},"children":[]}]}]}],"width":40,"style":{"position":"sticky","left":0,"background":"#fff","zIndex":1}},{"accessor":"team","name":"Team","type":"character","format":{"cell":{"digits":1},"aggregated":{"digits":1}},"align":"center","width":60,"style":{"position":"sticky","left":40,"background":"#fff","zIndex":1}},{"accessor":"time_avg_lead","name":"Time Average Lead","type":"numeric","format":{"cell":{"digits":1},"aggregated":{"digits":1}},"align":"center"},{"accessor":"time_avg_wins","name":"Expected Wins","type":"numeric","format":{"cell":{"digits":1},"aggregated":{"digits":1}},"align":"center"},{"accessor":"off_yards_per_snap","name":"Yards/Snap","type":"numeric","format":{"cell":{"digits":1},"aggregated":{"digits":1}},"align":"center"},{"accessor":"off_adj_yards_per_snap","name":"Adj Yards/Snap","type":"numeric","format":{"cell":{"digits":1},"aggregated":{"digits":1}},"align":"center"},{"accessor":"def_yards_per_snap","name":"Yards/Snap","type":"numeric","format":{"cell":{"digits":1},"aggregated":{"digits":1}},"align":"center"},{"accessor":"def_adj_yards_per_snap","name":"Adj Yards/Snap","type":"numeric","format":{"cell":{"digits":1},"aggregated":{"digits":1}},"align":"center"},{"accessor":"yards_per_snap_diff","name":"Yards/Snap Diff","type":"numeric","format":{"cell":{"digits":2},"aggregated":{"digits":2}},"align":"center"},{"accessor":"adj_yards_per_snap_diff","name":"Adj Yards/Snap Diff","type":"numeric","format":{"cell":{"digits":2},"aggregated":{"digits":2}},"align":"center"}],"columnGroups":[{"name":"Time Average Stats","columns":["time_avg_lead","time_avg_wins"]},{"name":"Offense","columns":["off_yards_per_snap","off_adj_yards_per_snap"]},{"name":"Defense","columns":["def_yards_per_snap","def_adj_yards_per_snap"]},{"name":"Differential","columns":["yards_per_snap_diff","adj_yards_per_snap_diff"]}],"defaultSortDesc":true,"defaultSorted":[{"id":"time_avg_lead","desc":true}],"pagination":false,"defaultPageSize":10,"paginationType":"numbers","showPageInfo":true,"minRows":1,"highlight":true,"bordered":true,"height":"675px","theme":{"color":"#878e94","backgroundColor":"#ffffff","borderWidth":"0px","stripedColor":"#f9f9fb","highlightColor":"#f1f3f4","cellPadding":4,"tableStyle":{"fontSize":16},"headerStyle":{"borderWidth":"1px","padding":"7px","borderTop":"1px solid #595d63","backgroundColor":"#595d63","textTransform":"uppercase","borderColor":"#595d63","color":"#ffffff","transitionDuration":"0.1s","&:hover[aria-sort]":{"backgroundColor":"#4d5056","color":"#ffffff"},"&[aria-sort='ascending']":{"backgroundColor":"#393c40","color":"#ffffff","boxShadow":"inset 0 3px 0 0 #ffffff"},"&[aria-sort='descending']":{"backgroundColor":"#393c40","color":"#ffffff","boxShadow":"inset 0 -3px 0 0 #ffffff"},"fontSize":12,"fontWeight":"bold"},"groupHeaderStyle":{"&:not(:empty)":{"backgroundColor":"#e4e8ed","textTransform":"uppercase","fontWeight":"bold","color":"#878e94","fontSize":12,"boxShadow":"inset 3px 0 0 0 #ffffff"}},"rowSelectedStyle":{"backgroundColor":"#e4e8ed"},"inputStyle":{"backgroundColor":"#ffffff","color":"#878e94"},"searchInputStyle":{"fontSize":"14px","textTransform":"uppercase","backgroundColor":"#ffffff","color":"#878e94","&:focus":{"color":"#878e94"}},"selectStyle":{"backgroundColor":"#073c57","color":"#ffffff","borderColor":"#ffffff","outlineColor":"#ffffff"},"paginationStyle":{"textTransform":"uppercase","fontSize":"15px"},"pageButtonStyle":{"textTransform":"uppercase","fontSize":"15px","backgroundColor":"#ffffff","color":"#164861","&:hover":{"backgroundColor":"#052c3f","color":"#ffffff"}},"pageButtonHoverStyle":{"backgroundColor":"#052c3f","color":"#ffffff"},"pageButtonActiveStyle":{"backgroundColor":"#073c57","color":"#ffffff"},"pageButtonCurrentStyle":{"backgroundColor":"#073c57","color":"#ffffff"}},"dataKey":"a9f27e3eca2f27bc0b3b1f5841a2e05f"},"children":[]},"class":"reactR_markup"},"evals":[],"jsHooks":[]}</script>
 </div>
 <h3 id="glossary">Glossary</h3>
 <p>Description of Metrics:</p>
